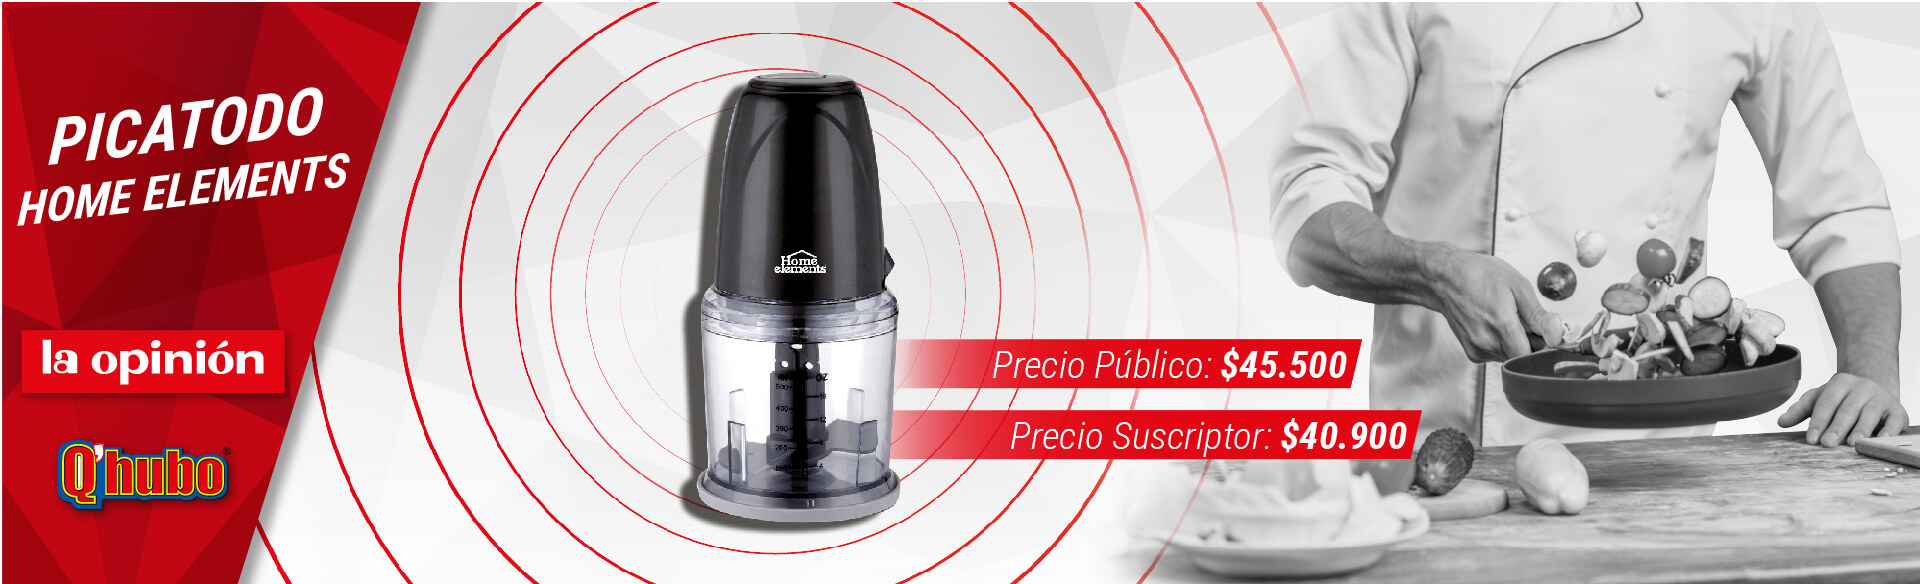
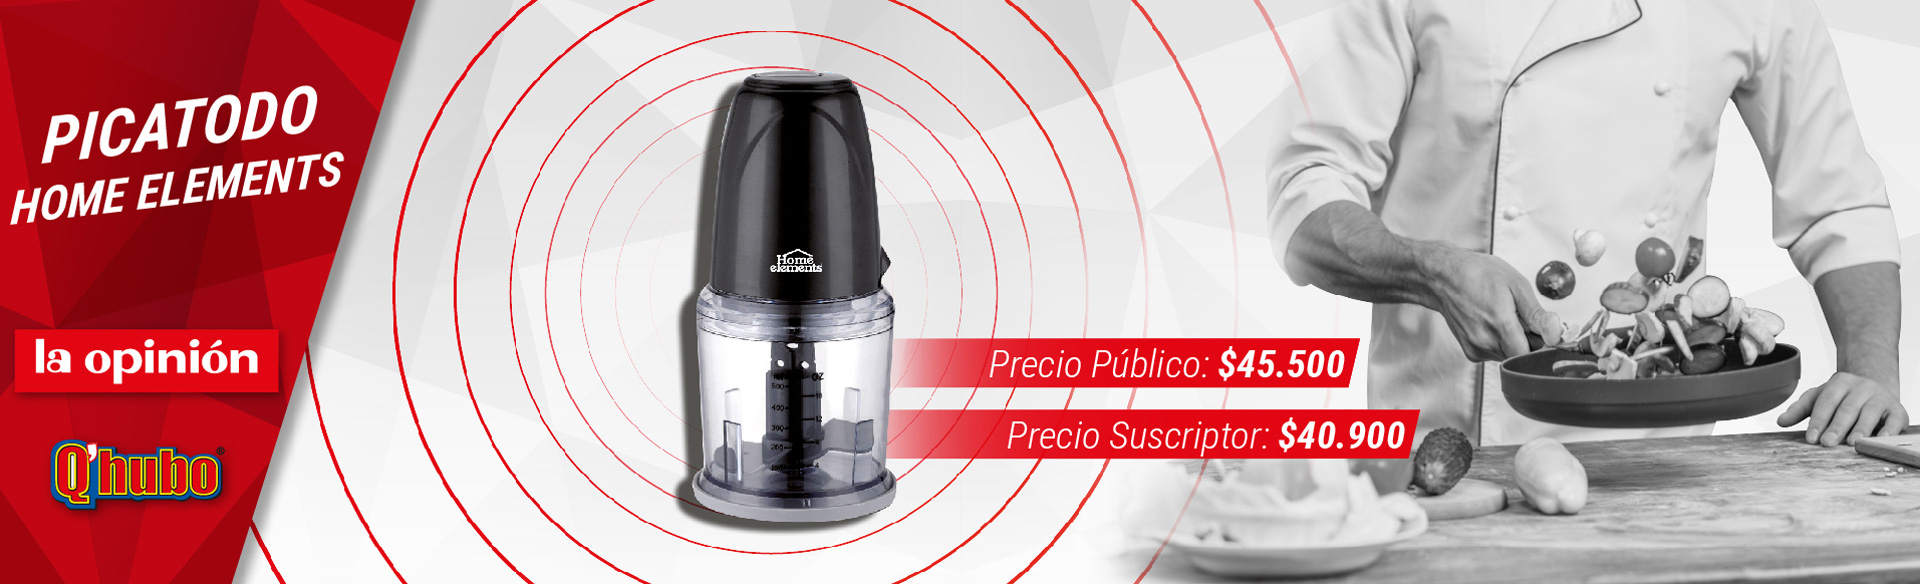
Changes products

diff --git a/src/entries/listProducts.js b/src/entries/listProducts.js
@@ -1,10 +1,10 @@
-import destacado1 from '../img/products/slideProduct_1.jpg'
-import destacado2 from '../img/products/slideProduct_2.jpg'
+import destacado1 from '../img/products/mayo/slide-1.jpg'
+import destacado2 from '../img/products/mayo/slide-2.jpg'
 import destacado3 from '../img/products/slideProduct_3.jpg'
 import destacado4 from '../img/products/slideProduct_4.jpg'
 
-import product1 from '../img/products/product_1.jpg'
-import product2 from '../img/products/product_2.jpg'
+import product1 from '../img/products/mayo/product_1.jpg'
+import product2 from '../img/products/mayo/product_2.jpg'
 import product3 from '../img/products/product_3.jpg'
 import product4 from '../img/products/product_4.jpg'
 // import slideOne from '../img/slide-1.jpg'
@@ -24,21 +24,20 @@ const listProducts = [
   {
     id: '001',
     src: product1,
-    title: 'Aspiradora para auto',
+    title: 'Picatodo',
+    active: true,
     description: `
-      <h3>ACCESORIOS INCLUIDOS</h3>
-      <p>1 Extensión <br/> 1 Cepillo</p>
       <h3>CARACTERÍASTICAS</h3>
       <p>
-        •	Diseño ligero, proporciona mayor control <br/>
-        •	Alta potencia y diseño portátil para uso en el auto <br/>
-        •	Filtro lavable, reutilizable <br/>
-        •	Incluye accesorios para aspirar en áreas estrechas <br/>
+        •	Capacidad 500 ml <br/>
+        •	Aspas mezcladoras <br/>
+        •	Cuchillas en acero inoxidables <br/>
+        •	Botón de turbo <br/>
+        •	Vaso plástico transparente <br/>
       </p>
-      <p>Unidades disponibles: 85 unidades</p>
     `,
     slide: destacado1,
-    slug: 'aspiradora-para-auto',
+    slug: 'picatodo',
     subproducts: [
       {
         id: '0001',
@@ -69,30 +68,20 @@ const listProducts = [
   {
     id: '002',
     src: product2,
-    title: 'Set de ejercicio',
+    title: 'Sandwichera',
+    active: true,
     description: `
       <h3>CARACTERÍASTICAS</h3>
       <p>
-      •	Balón ( 65 cm de diámetro) <br/>
-      •	Inflador para balón  <br/>
-      •	Rueda de ejercicio para abdominales ( 17 cm) <br/>
-      •	Tapete para ejercicio ( 173 x 61 x 0,4 cm ) <br/> 
-      •	Banda elástica tonificadora ( 7 x 11 x120 cm)  <br/>
-      •	Unidades disponibles: 100  <br/>
+      •	Luces led que indican el estado de preparación: verde, lista para disfrutar! <br/>
+      •	Diseño y tamaño perfecto para guardar en cualquier espacio de la cocina  <br/>
+      •	Sistema de cierre con seguro <br/>
+      •	Color: Negro <br/> 
+      •	Material: Acero <br/>
       </p>
-
-      <h3>FUNCIONES</h3>
-      <p>
-      •	Elementos que ayudan el equilibrio postural y coordinación <br/>
-      •	Tapete que se adhiere a la mayoría de superficies <br/>
-      •	Comodidad al hacer ejercicios: yoga, Pilates, stretching y abdomen <br/>
-      •	La rueda de ejercicios ayuda a fortalecer los músculos abdominales <br/>
-      •	La banda elástica ayuda a tonificar los músculos del cuerpo     <br/>  
-      </p>
-      <p>Unidades disponibles: 78 </p>
     `,
     slide: destacado2,
-    slug: 'set-de-ejercicio',
+    slug: 'sandwichera',
     subproducts: [
       {
         id: '0001',
@@ -124,6 +113,7 @@ const listProducts = [
     id: '003',
     src: product3,
     title: 'Smart band',
+    active: false,
     description: `
       <h3>FUNCIONES</h3>
       <p>
@@ -174,6 +164,7 @@ const listProducts = [
     id: '004',
     src: product4,
     title: 'Olla a presión HOME ELEMENTS',
+    active: false,
     description: `
       <h3>Características</h3>
       <p>

diff --git a/src/slides/containers/Slides.jsx b/src/slides/containers/Slides.jsx
@@ -1,44 +1,33 @@
 import React, { Component } from 'react'
-// import slideOne from '../../img/products/slide.jpg'
-import slideTwo from '../../img/products/slideProduct_1.jpg'
-import slideThree from '../../img/products/slideProduct_2.jpg'
-import slideFour from '../../img/products/slideProduct_3.jpg'
-import slideFive from '../../img/products/slideProduct_4.jpg'
+
 import SlidesLayout from '../components/Slides-layout.jsx'
-import slideOneMovil from '../../img/movil/slide-1.jpg'
+
+import slideOne from '../../img/products/mayo/slide-1.jpg'
+import slideTwo from '../../img/products/mayo/slide-2.jpg'
+
+import slideOneMovil from '../../img/movil/mayo/slide-1.jpg'
+import slideTwoMovil from '../../img/movil/mayo/slide-2.jpg'
 
 const screenWith = window.innerWidth
-// let slide1 = slideOne
+
+let slide1 = slideOne
 let slide2 = slideTwo
-let slide3 = slideThree
-let slide4 = slideFour
-let slide5 = slideFive
 
 if (screenWith <= 480) {
-  slide2 = slideOneMovil
-  slide3 = slideOneMovil
+  slide1 = slideOneMovil
+  slide2 = slideTwoMovil
 }
 
 const slides = [
   {
+    src: slide1,
+    title: 'Picatodo',
+    slug: 'picatodo'
+  },
+  {
     src: slide2,
-    title: 'ASPIRADORA PARA AUTO',
-    slug: 'aspiradora-para-auto'
-  },
-  {
-    src: slide3,
-    title: 'SET DE EJERCICIO',
-    slug: 'set-de-ejercicio'
-  },
-  {
-    src: slide4,
-    title: 'SMART BAND',
-    slug: 'smart-band'
-  },
-  {
-    src: slide5,
-    title: 'OLLA PRESIÓN HOME ELEMENTS',
-    slug: 'olla-a-presion-home-elements'
+    title: 'Sandwichera',
+    slug: 'sandwichera'
   }
 ]
 

diff --git a/src/products/components/Product.jsx b/src/products/components/Product.jsx
@@ -11,9 +11,17 @@ const Product = (props) => {
       <div className='info'>
         <h4 className='title'>{props.title}</h4>
         {/* <p className='description'>{props.description}</p> */}
-        <button className='btn_buy'>
-          <a href={`/producto/${props.slug}`}>Comprar</a>
-        </button>
+        {
+          props.active ? (
+            <button className='btn_buy'>
+              <a href={`/producto/${props.slug}`}>Comprar</a>
+            </button>
+          ) : (
+            <button className='btn_buy inactive' disabled>
+              <a href='/#' className='inactive'>Comprar</a>
+            </button>
+          )
+        }
       </div>
       <hr />
     </div>

diff --git a/src/products/components/products.sass b/src/products/components/products.sass
@@ -55,6 +55,8 @@
         text-align: center
       .description
         font-weight: 400
+      .btn_buy.inactive
+        background-color: #bdbdbd
       .btn_buy
         height: 42px
         background-color: $rojo_1
